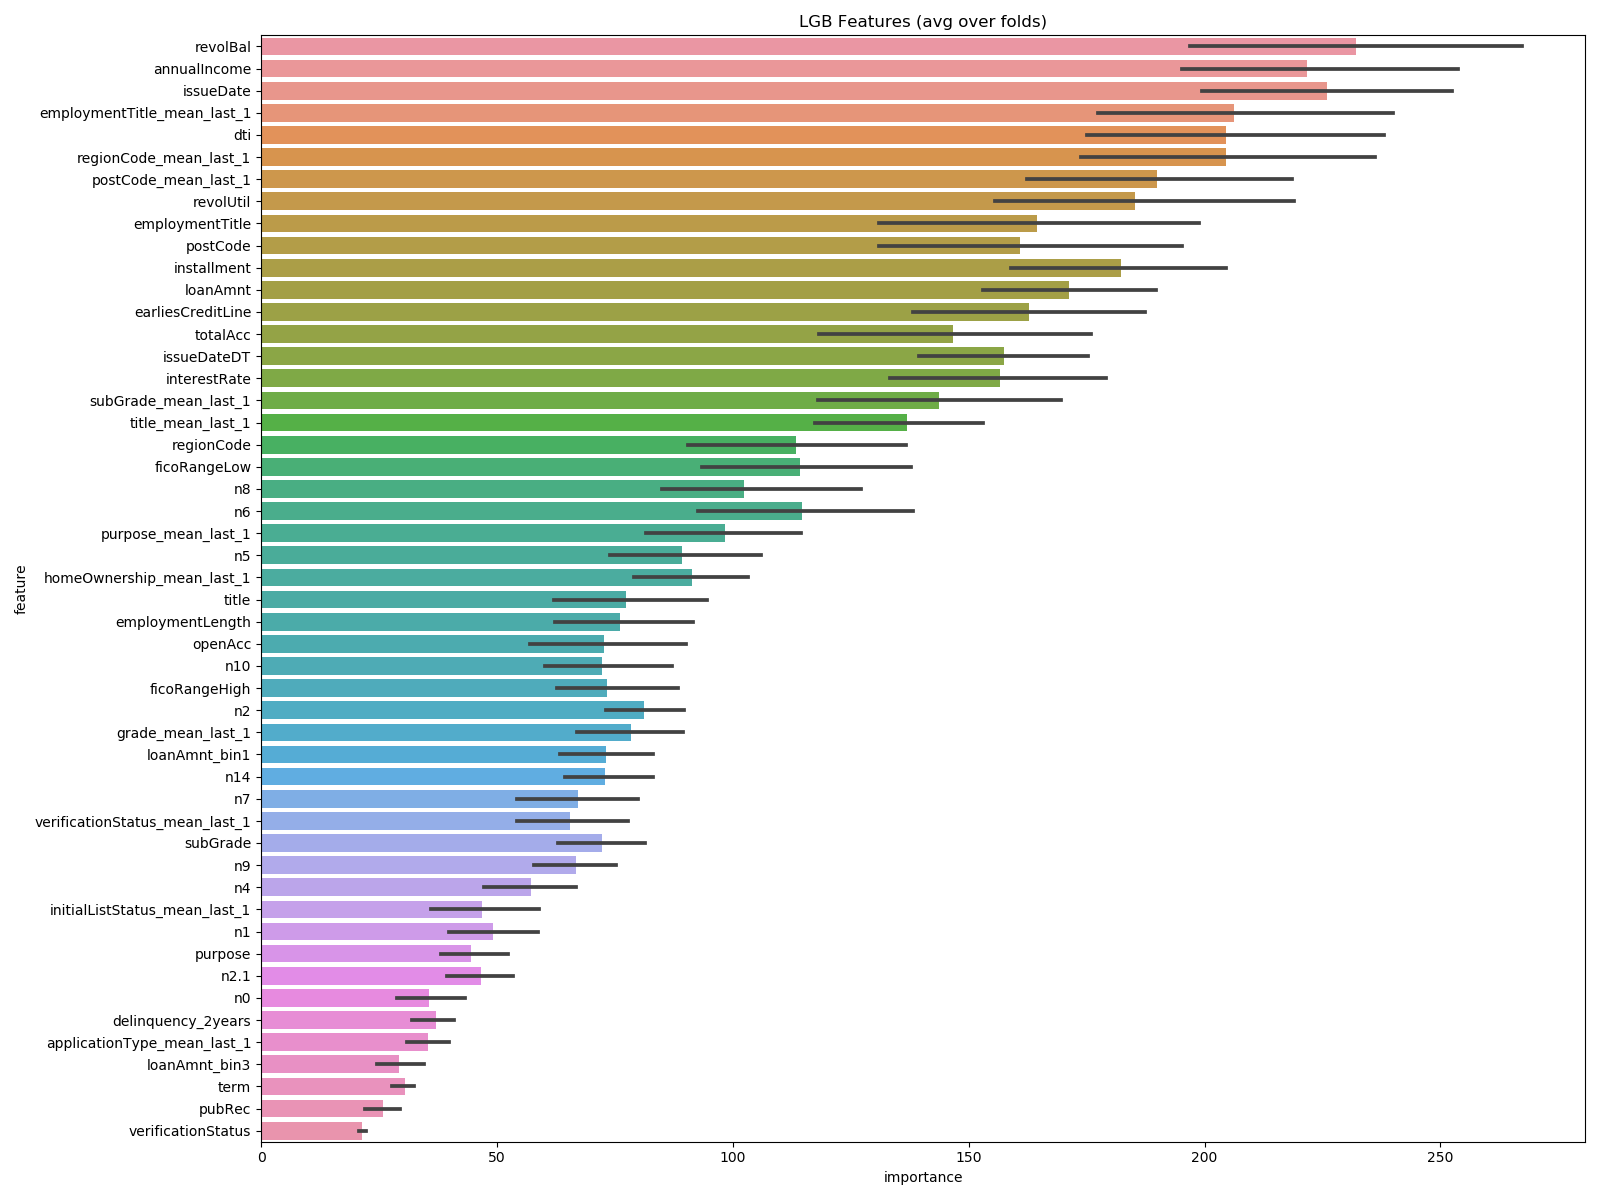
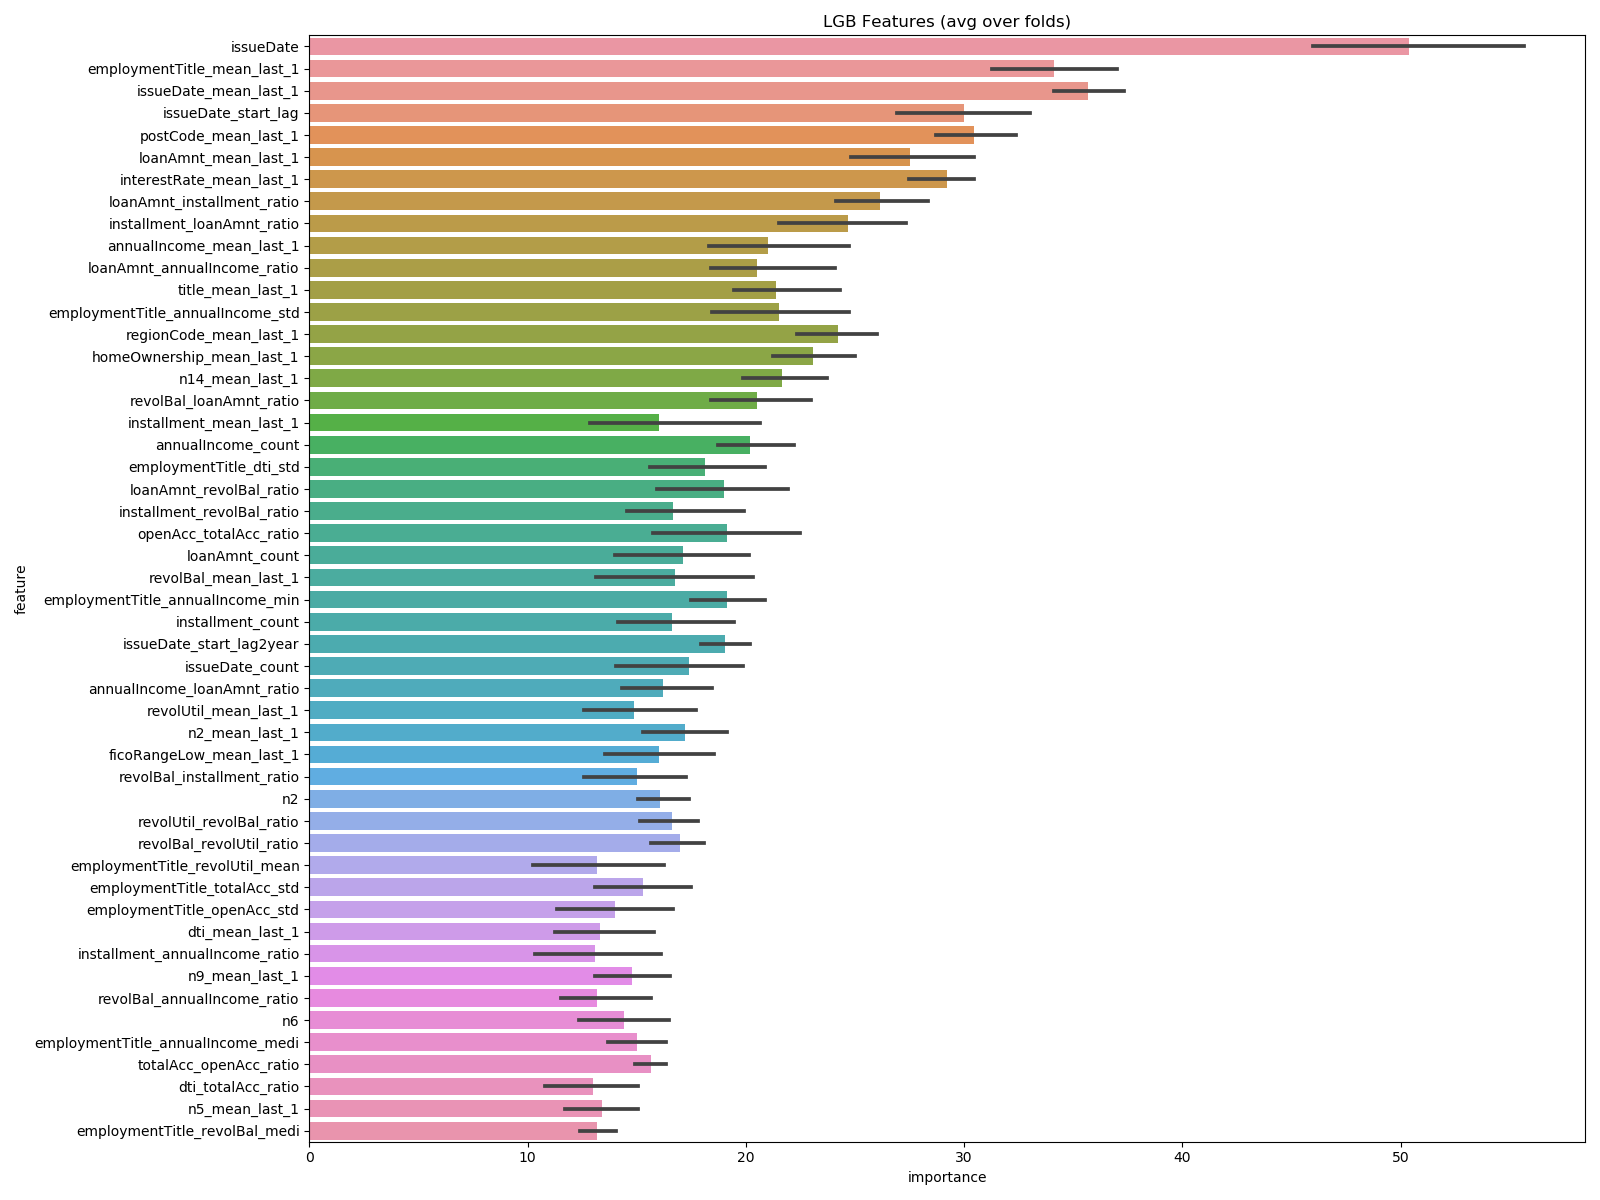
amount_feas 基本聚合特征和基本交叉特征 线下

Changed region(s): [[0.0312, 0.0308, 0.4688, 0.9558], [0.375, 0.0, 0.9062, 0.4317], [0.5625, 0.9558, 0.625, 0.9867]]

diff --git a/gen_feas.py b/gen_feas.py
@@ -41,12 +41,12 @@ def load_data():
 
     # 去除重复列
     del train['n2.1']
-    del test['n2.1'],test['n2.2'],test['n2.3']
+    del test['n2.1'], test['n2.2'], test['n2.3']
     data = pd.concat([train, test], axis=0).reset_index(drop=True)
     # 删除列
     del data['policyCode']
 
-    print("data.shape:",data.shape)
+    print("data.shape:", data.shape)
     # ========== 数据处理 ===================
 
     numerical_fea = list(data.select_dtypes(exclude=['object']).columns)
@@ -57,7 +57,6 @@ def load_data():
     data[numerical_fea] = data[numerical_fea].fillna(data[numerical_fea].median())
     # 按照众数填充类别型特征
     data['employmentLength'] = data['employmentLength'].fillna(data['employmentLength'].mode()[0])
-
 
     # ================ 时间特征提取 ==================
     # employmentLength对象类型特征转换到数值
@@ -115,8 +114,10 @@ def load_data():
     cat_list = [i for i in train.columns if i not in ['id', 'isDefault', 'policyCode']]
     for i in tqdm(cat_list, desc="长尾分布特征处理"):
         if data[i].nunique() > 3:
-            data['{}_count'.format(i)] = data.groupby(['{}'.format(i)])['id'].transform('count')
-    # ===================== 分箱特征 ===============
+            data['{}_count'.format(i)] = data.groupby(['{}'.format(i)])['id'].transform('count') # 计数特征
+            # data[i + '_rank'] = data.groupby(i)['id'].transform('rank') # 排序特征
+
+    # ===================== amount_feas 分箱特征 ===============
     amount_feas = ['loanAmnt', 'interestRate', 'installment', 'annualIncome', 'dti',
                    'ficoRangeLow', 'ficoRangeHigh', 'openAcc', 'revolBal', 'revolUtil', 'totalAcc']
     for fea in tqdm(amount_feas, desc="分箱特征"):
@@ -127,12 +128,39 @@ def load_data():
         # 分位数分箱
         data['{}_bin3'.format(fea)] = pd.qcut(data[fea], 10, labels=False)
 
-    # ==================== 特征交互 ==================
+    # ===================== amount_feas 基本聚合特征 ===============
+    for f in tqdm(amount_feas, desc="amount_feas 基本聚合特征"):
+        for cate in ['grade','subGrade','employmentTitle','employmentLength','purpose','postCode','regionCode','earliesCreditLine']:
+            if f != cate:
+                data['{}_{}_medi'.format(cate, f)] = data.groupby(cate)[f].transform('median')
+                data['{}_{}_mean'.format(cate, f)] = data.groupby(cate)[f].transform('mean')
+                data['{}_{}_max'.format(cate, f)] = data.groupby(cate)[f].transform('max')
+                data['{}_{}_min'.format(cate, f)] = data.groupby(cate)[f].transform('min')
+                data['{}_{}_std'.format(cate, f)] = data.groupby(cate)[f].transform('std')
+    # =================== 基本交叉特征  =============================
+    for f1 in tqdm(amount_feas,desc="amount_feas 基本交叉特征"):
+        for f2 in amount_feas:
+            if f1 != f2:
+                colname = '{}_{}_ratio'.format(f1, f2)
+                data[colname] = data[f1].values / data[f2].values
+
+    # ==================== 匿名特征 ==================
+    n_feas=['n0', 'n1', 'n2', 'n4', 'n5', 'n6', 'n7', 'n8', 'n9', 'n10', 'n11', 'n12', 'n13', 'n14']
     # 其他衍生变量 mean 和 std
-    for item in tqdm(['n0', 'n1', 'n2',  'n4', 'n5', 'n6', 'n7', 'n8', 'n9', 'n10', 'n11', 'n12', 'n13', 'n14'],
+    for item in tqdm(n_feas,
                      desc="其他衍生变量 mean 和 std"):
         data['grade_to_mean_' + item] = data['grade'] / data.groupby([item])['grade'].transform('mean')
         data['grade_to_std_' + item] = data['grade'] / data.groupby([item])['grade'].transform('std')
+
+    # # 匿名特征信息提取
+    # data['nmean'] = data[n_feas].mean(1)
+    # data['ntd'] = data[n_feas].std(1)
+    # data['nsum'] = data[n_feas].sum(1)
+    # data['x_cross'] = ''
+    # for i in range(0, len(n_feas)):
+    #     data['x_cross'] = data['x_cross'].astype(str).values + '_' + data[n_feas[i]].astype(str).values
+    # lbl = LabelEncoder()
+    # data['x_cross'] = lbl.fit_transform(data['x_cross'].astype(str))
 
     # 类别特征nunique特征
     nuni_feat = ['grade', 'subGrade', 'employmentTitle',
@@ -166,6 +194,19 @@ def load_data():
                 data[(data['fold'] != fold) & (data['fold'] != 5)].groupby(i)['isDefault'].mean()
             )
         data[i + '_mean_last_1'] = data[i + '_mean_last_1'].astype(float)
+
+    # def oneHot(df, columns):
+    #     for col in columns:
+    #         pf = pd.get_dummies(df[col])
+    #         pf = pf.astype('float')
+    #         columns = {_: col + "_" + str(_) for _ in pf.columns}
+    #         pf.rename(columns=columns, inplace=True)
+    #         df = pd.concat([df, pf], axis=1)
+    #         # df.drop(col, axis=1, inplace=True) #326
+    #     return df
+    #
+    # data = oneHot(data, ['job', 'ethnic', 'gender', 'loanProduct'])
+
     no_fea = ['id', 'policyCode',
               'isDefault', 'ID', 'fold',
               ]

diff --git a/lgb.py b/lgb.py
@@ -126,7 +126,6 @@ def train_model_classification(X, X_test, y, params, num_classes=2,
         # 评价指标
         acc_scores.append(
             metrics_dict['lb_score_method']['sklearn_scoring_accuracy'](y_valid, np.argmax(y_pred_valid, axis=1)))
-        print(scores)
         scores.append(
             metrics_dict['lb_score_method']['sklearn_scoring_auc'](y_valid, y_pred_valid[:,1]))
         print(acc_scores)
@@ -154,6 +153,7 @@ def train_model_classification(X, X_test, y, params, num_classes=2,
 
     result_dict['oof'] = oof
     result_dict['prediction'] = prediction
+    result_dict['acc_scores'] = acc_scores
     result_dict['scores'] = scores
 
     if model_type == 'lgb' or model_type == 'xgb':
@@ -226,7 +226,8 @@ result_dict_lgb = train_model_classification(X=X,
                                              verbose=200,
                                              early_stopping_rounds=200)
 
+acc_score = np.mean(result_dict_lgb['acc_scores'])
 score = np.mean(result_dict_lgb['scores'])
 print(score)
 test['isDefault'] = result_dict_lgb['prediction'][:, 1]
-test[['id', 'isDefault']].to_csv('result/lgb_auc{}.csv'.format(score), index=False)
+test[['id', 'isDefault']].to_csv('result/lgb_acc{}auc{}.csv'.format(acc_score,score), index=False)

diff --git a/README.md b/README.md
@@ -35,6 +35,18 @@ CV mean score: 0.8076, std: 0.0002.
 train_model_classification cost time:426.4979546070099
 0.7388451174739599
 ```
+- 添加amount_feas 基本聚合特征和基本交叉特征 线下auc 0.7401055866296563 线上0.7398
+
+```text
+[0.7407006310419633, 0.7382068413277062, 0.7420021529449097, 0.7404786259822548]
+[0.8077125, 0.80695, 0.80773125, 0.807575, 0.80795]
+[0.7407006310419633, 0.7382068413277062, 0.7420021529449097, 0.7404786259822548, 0.7391396818514473]
+CV mean score: 0.7401, std: 0.0013.
+CV mean score: 0.8076, std: 0.0003.
+train_model_classification cost time:950.9784574508667
+0.7401055866296563
+```
+
 ### xgboost
 ```text
 [0.80745625, 0.8065875, 0.80711875, 0.8072125, 0.8070375]
@@ -42,7 +54,16 @@ CV mean score: 0.8071, std: 0.0003.
 train_model_classification cost time:2882.082005262375
 0.8070824999999999
 ```
+- 综合特征
+```text
+Stopping. Best iteration:
+[683]	validation_0-logloss:0.41535	validation_1-logloss:0.43947
 
+[0.80765625, 0.806775, 0.8080125, 0.80755625, 0.8076625]
+CV mean score: 0.8075, std: 0.0004.
+train_model_classification cost time:9510.13922739029
+0.8075325000000001
+```
 ### catboost
 ```text
 [0.80724375, 0.8059, 0.80655625, 0.80650625, 0.8068625]
